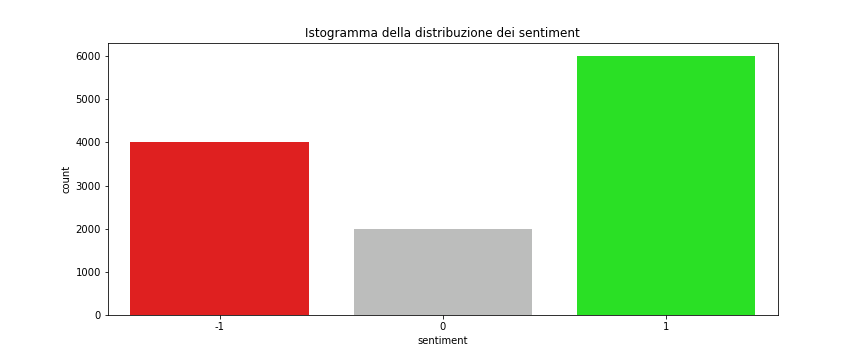
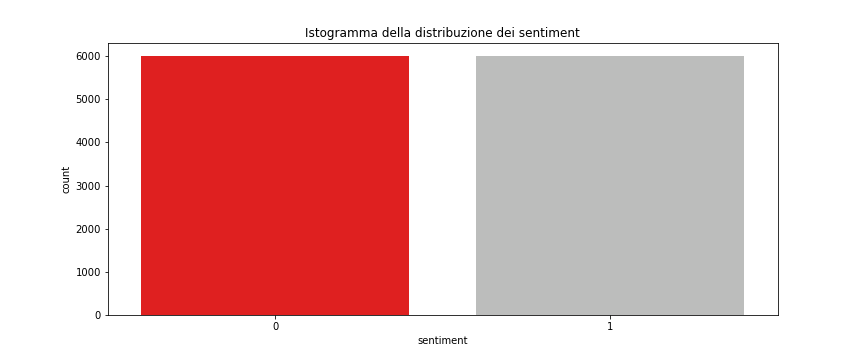
Creato classificatore bayesiano

diff --git a/Supervised.py b/Supervised.py
@@ -1,0 +1,31 @@
+from sklearn.feature_extraction.text import TfidfVectorizer
+from sklearn.model_selection import train_test_split
+from sklearn.naive_bayes import MultinomialNB
+from sklearn.metrics import confusion_matrix
+from sklearn.metrics import classification_report
+from sklearn.metrics import accuracy_score
+
+def processingTfIdf(reviewText, sentiment):
+    X_train, X_test, Y_train, Y_test = train_test_split(reviewText, sentiment, test_size=0.3)
+    
+    # Tf-idf
+    vectorizer = TfidfVectorizer(sublinear_tf=True)
+    X_train_transformed = vectorizer.fit_transform(X_train)
+    X_test_transformed = vectorizer.transform(X_test)
+
+    return X_train_transformed, X_test_transformed, Y_train, Y_test
+
+#valori: rs=8  0.8313888888888888
+def multinb(textReview, sentiment):
+    X_train, X_test, Y_train, Y_test = processingTfIdf(textReview, sentiment)
+
+    nb = MultinomialNB()
+    nb.fit(X_train, Y_train)
+    y_pred = nb.predict(X_test)
+    y_true = Y_test
+
+    print("Accuracy: ", accuracy_score(y_true, y_pred))
+    print()
+    #print(confusion_matrix(y_true, y_pred))
+    print(classification_report(y_true, y_pred, target_names=["Negativo", "Positivo"]))
+    #kCrossValidation(nb, description, continent)

diff --git a/Preprocessing.py b/Preprocessing.py
@@ -24,8 +24,8 @@ def addSentimentColumn(dataset):
     if not 'sentiment' in dataset:
         dataset.insert(3, 'sentiment', 0)
     
-    dataset.loc[dataset["rating"] == 1, "sentiment"] = -1
-    dataset.loc[dataset["rating"] == 2, "sentiment"] = -1
+    dataset.loc[dataset["rating"] == 1, "sentiment"] = 0
+    dataset.loc[dataset["rating"] == 2, "sentiment"] = 0
     dataset.loc[dataset["rating"] == 3, "sentiment"] = 0
     dataset.loc[dataset["rating"] == 4, "sentiment"] = 1
     dataset.loc[dataset["rating"] == 5, "sentiment"] = 1
